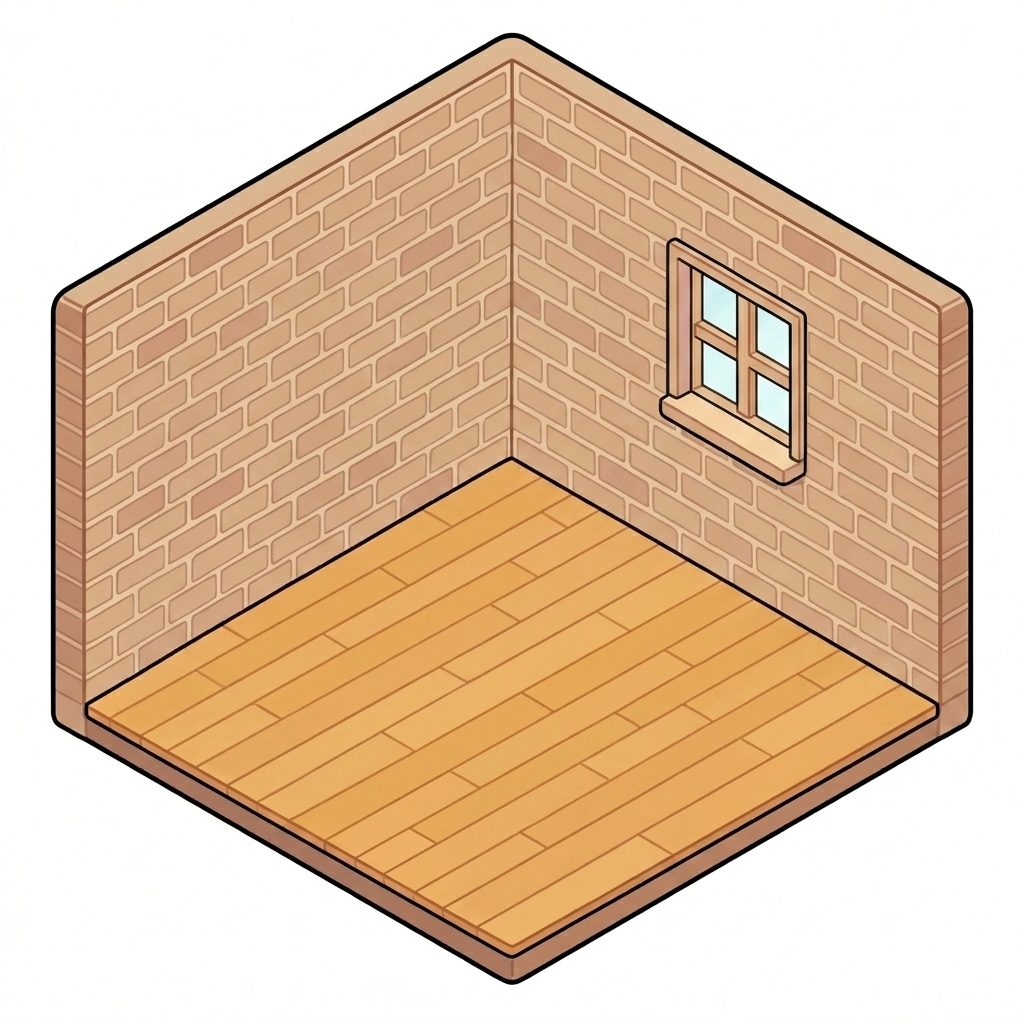
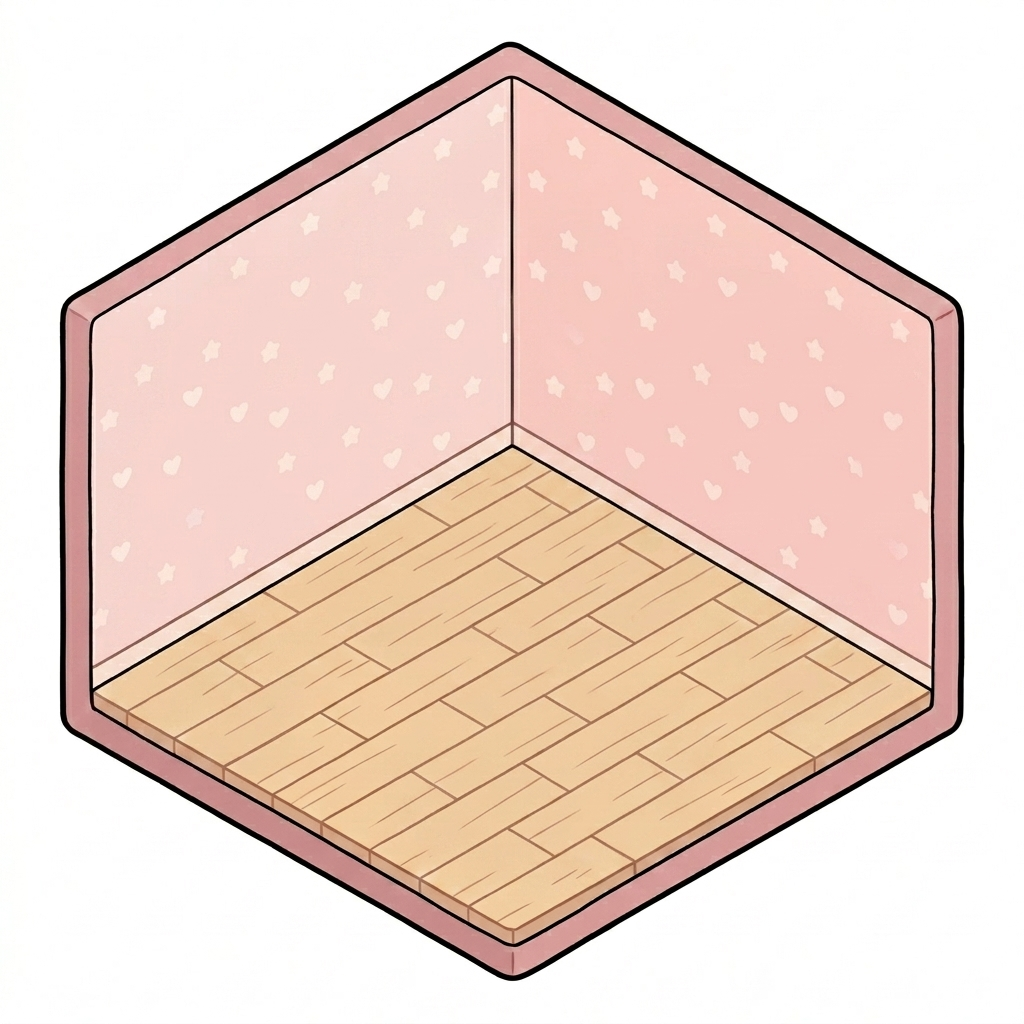
optimize

diff --git a/extract_stickers.py b/extract_stickers.py
@@ -1,0 +1,74 @@
+import cv2
+import numpy as np
+import os
+
+def extract_stickers_contours(image_path, output_dir):
+    print(f"Loading image from {image_path}")
+    img = cv2.imread(image_path, cv2.IMREAD_UNCHANGED)
+    if img is None:
+        print("Error: Could not load image")
+        return
+        
+    if len(img.shape) == 3 and img.shape[2] == 3:
+        img = cv2.cvtColor(img, cv2.COLOR_BGR2BGRA)
+        
+    # Find white pixels (the outline and internal white)
+    # White is near 255 in all channels
+    lower_white = np.array([230, 230, 230, 0])
+    upper_white = np.array([255, 255, 255, 255])
+    
+    if img.shape[2] == 3:
+        lower_white = lower_white[:3]
+        upper_white = upper_white[:3]
+        
+    white_mask = cv2.inRange(img, lower_white, upper_white)
+    
+    # Dilate slightly to ensure the white outline is fully connected
+    kernel = np.ones((3,3), np.uint8)
+    white_mask = cv2.dilate(white_mask, kernel, iterations=1)
+    
+    # Find contours
+    contours, _ = cv2.findContours(white_mask, cv2.RETR_EXTERNAL, cv2.CHAIN_APPROX_SIMPLE)
+    
+    # Sort contours from top to bottom, left to right
+    contours = sorted(contours, key=lambda c: (cv2.boundingRect(c)[1] // 100, cv2.boundingRect(c)[0]))
+    
+    print(f"Found {len(contours)} raw contours.")
+    
+    if not os.path.exists(output_dir):
+        os.makedirs(output_dir)
+        
+    count = 1
+    for contour in contours:
+        x, y, w, h = cv2.boundingRect(contour)
+        
+        # Filter out noise
+        if w < 40 or h < 40:
+            continue
+            
+        print(f"Processing sticker {count} at x:{x}, y:{y}, w:{w}, h:{h}")
+        
+        # Create a mask for this single object
+        obj_mask = np.zeros(img.shape[:2], dtype=np.uint8)
+        cv2.drawContours(obj_mask, [contour], -1, 255, thickness=cv2.FILLED)
+        
+        # Smooth the mask to remove jagged edges from dilation
+        obj_mask = cv2.erode(obj_mask, kernel, iterations=1)
+        
+        # Crop the sticker and the mask
+        sticker = img[y:y+h, x:x+w].copy()
+        sticker_mask = obj_mask[y:y+h, x:x+w]
+        
+        # Apply mask to alpha channel
+        sticker[:, :, 3] = sticker_mask
+        
+        output_path = os.path.join(output_dir, f"sticker_{count}.png")
+        cv2.imwrite(output_path, sticker)
+        count += 1
+        
+    print(f"Successfully extracted {count-1} stickers to {output_dir}")
+
+if __name__ == "__main__":
+    image_path = r"d:\room_sitkcer\assets\stickers.png"
+    output_dir = r"d:\room_sitkcer\assets"
+    extract_stickers_contours(image_path, output_dir)